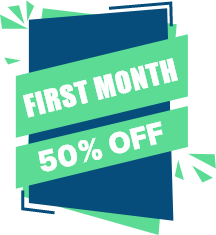
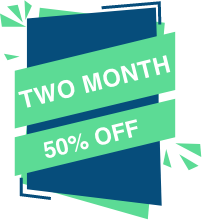
remove 2 month storage

diff --git a/src/pages/Home/components/NewHomeBanner.js b/src/pages/Home/components/NewHomeBanner.js
@@ -127,7 +127,7 @@ export const NewHomeBanner = ({ selectedSearch, handleSelectedChange }) => {
                                     }
                             className={classes.rightSideBtn}
                             >
-                           50% off 1 Months Storage
+                           50% off 2 Months Storage
                            </Button>
                     </Grid>
                     <Grid item lg={12} >

diff --git a/src/pages/Contact/component/ContactFormDetails.js b/src/pages/Contact/component/ContactFormDetails.js
@@ -115,7 +115,7 @@ console.log(formData)
 				<Grid item xs={12} sm={6} md={3}>
 					{/* change image */}
 					<img
-								src={off}
+						src={off}
 						alt={contactInfo.type}
 						className={classes.offprice}
 							/>
